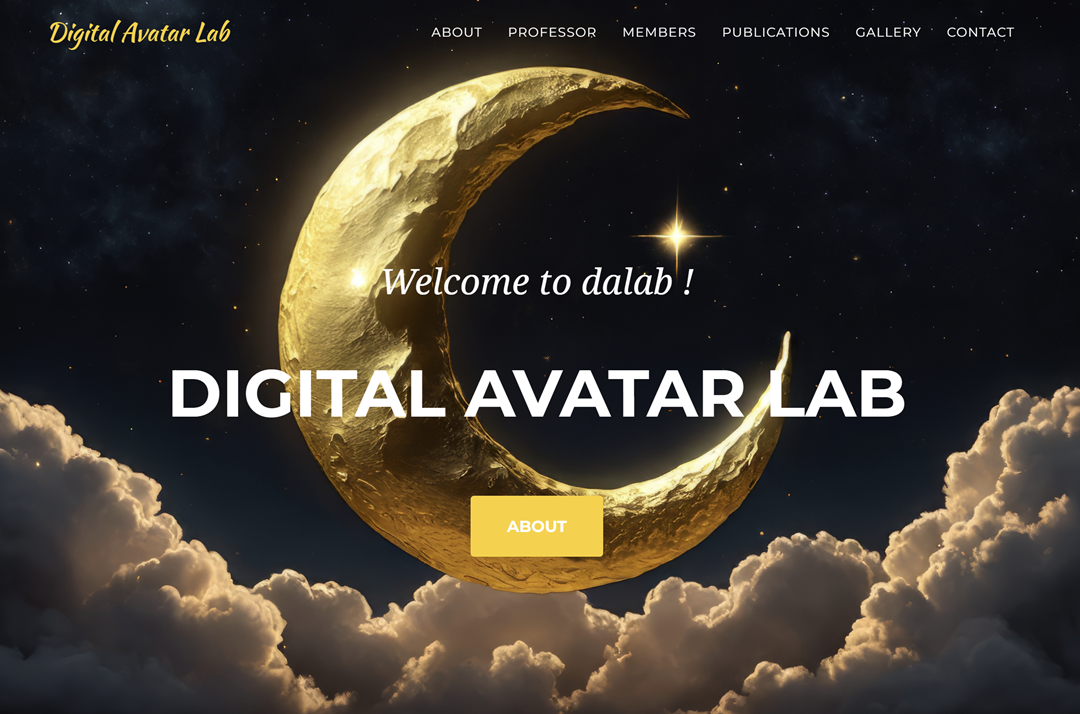
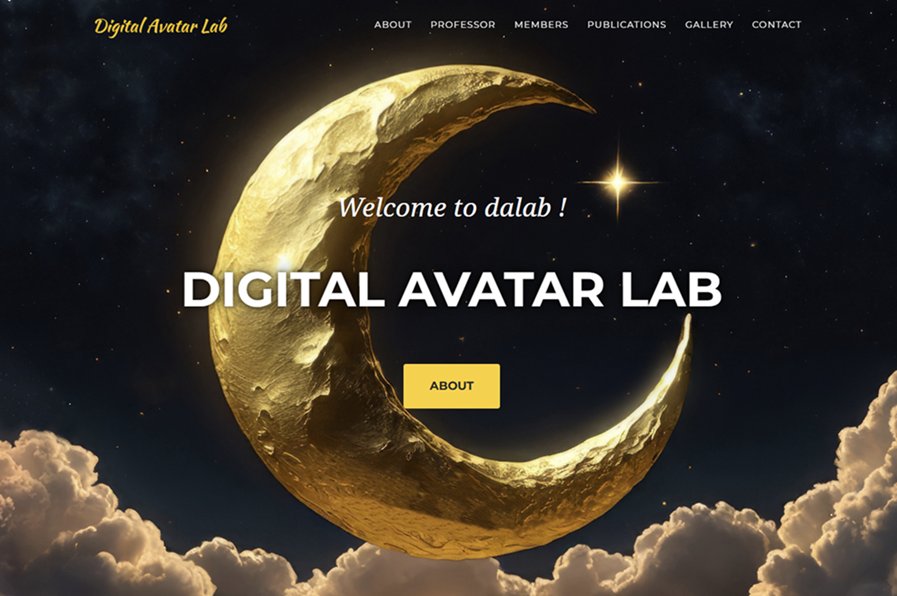
change bg image

diff --git a/_sass/layout/_masthead.scss b/_sass/layout/_masthead.scss
@@ -1,8 +1,14 @@
 // Styling for the masthead
+header.masthead .intro-heading {
+  text-shadow:
+  0 0 10px rgba(0,0,0,0.7),
+  0 0 25px rgba(0,0,0,0.6);
+}
+
 header.masthead {
   text-align: center;
-  color: white;
-  
+  color: white;  
+
   min-height: 100vh;
   height: 100vh;
   padding-top: 0;

diff --git a/_sass/components/_buttons.scss b/_sass/components/_buttons.scss
@@ -12,12 +12,13 @@
 .btn-primary {
   background-color: $primary;
   border-color: $primary;
+  color: #252525 !important;
   &:active,
   &:focus,
   &:hover {
-    background-color: darken($primary, 7.5%) !important;
-    border-color: darken($primary, 7.5%) !important;
-    color: white;
+    background-color: darken($primary, 9%) !important;
+    border-color: darken($primary, 9%) !important;
+    color: white !important;
   }
   &:active,
   &:focus {

diff --git a/_includes/head.html b/_includes/head.html
@@ -18,6 +18,12 @@
   <meta name="viewport" content="width=device-width, initial-scale=1, shrink-to-fit=no">
   <meta name="description" content="{{ site.description }}">
   <meta name="author" content="{{ site.author }}">
+
+  <!-- Open Graph (카톡/페북 썸네일) -->
+  <meta property="og:title" content="Digital Avatar Lab">
+  <meta property="og:image" content="https://digitalavatarlab.github.io/assets/img/screenshot.png">
+  <meta property="og:type" content="website">
+
   <link rel="canonical" href="{{ page.url | replace:'index.html','' | prepend: site.baseurl | prepend: site.url }}">
 
   <title>{% if page.title %}{{ page.title | append: " | " | append: site.title }}{% else %}{{ site.title }}{% endif %}</title>